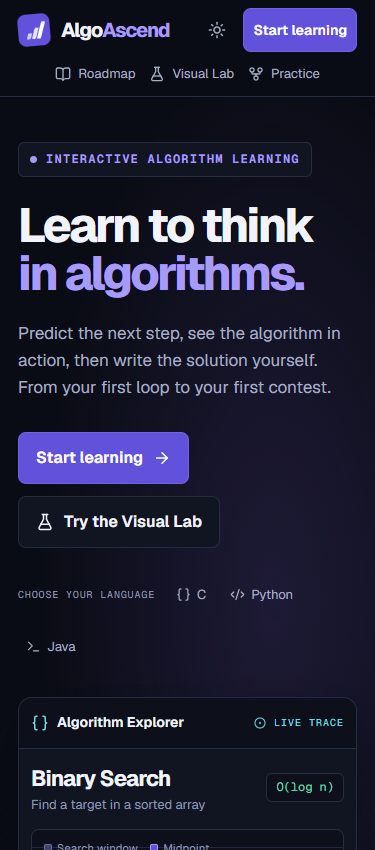
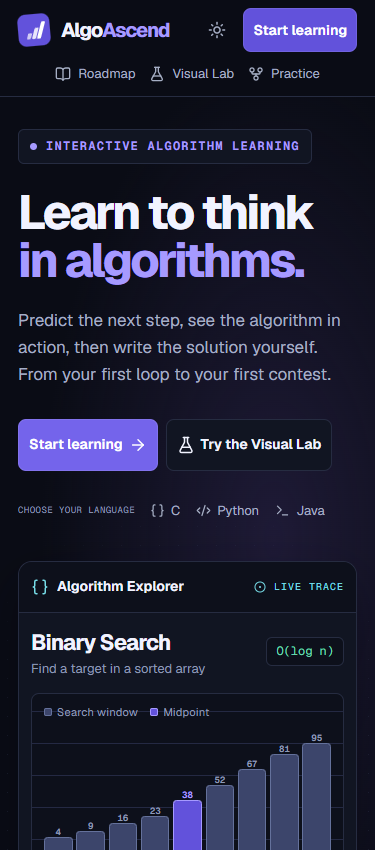
docs: record verified learning features and refresh screenshots

diff --git a/PROGRESS.md b/PROGRESS.md
@@ -1,18 +1,24 @@
 # Progress
 
-## Verified learning slice
+## Implemented
 
-- Public GitHub repository and research-backed product specification.
-- Responsive landing page, light and dark themes, guest onboarding, and personalized roadmap.
-- Three interactive lessons, three original problems, and working guest progress, drafts, and notes.
-- Binary search and bubble sort traces, editable inputs, and a measured binary-versus-linear search comparison.
-- Monaco coding workspace, authored hints, operation-budget estimator, and optional AlgoMentor adapter.
-- Production build, automated browser and axe checks, and compiled/executed reference examples in C, Python, and Java.
+- Public GitHub repository, platform research, phased architecture plan, and proposed account schema.
+- Responsive landing page, light and dark themes, guest onboarding, and personalized roadmap with all 15 stages listed.
+- Four published lessons and four original challenges. Progress, source drafts, personal notes, and manual external completion persist in the browser.
+- Three visual traces with editable input, pseudocode, playback, and state. Algorithm Battle measures binary and linear search on the same input.
+- Monaco workspace with authored hints, an operation-budget estimator, and optional Judge0 and AlgoMentor adapters.
+- Explainable revision intervals and an editable mistake notebook.
+- Official practice links for five platforms and public Codeforces rating history.
 
-## Release work remaining
+## Verification
 
-- Validate the actual Judge0 deployment and mentor provider with real endpoints. The application handles both missing services and keeps guest learning usable.
-- Add account identity, PostgreSQL migrations, shared limits, and synchronization.
-- Expand the planned stages, problem bank, visualization catalog, spaced revision, and analytics.
-- Add authorized platform synchronization, timed contests, upsolving, and release infrastructure.
-- Run a manual screen-reader and deployment acceptance pass before public service launch.
+The production build, TypeScript, lint, unit tests, browser journeys, and automated axe checks run locally and in GitHub Actions. Trusted reference programs run in C, Python, and Java. The Codeforces application endpoint returned 12 recent rating rows during a live smoke test. The Judge0 and mentor tests cover request handling and unavailable-service behavior. No live instance or model credentials were configured for this run.
+
+Screenshots reflect the local application at 375, 768, and 1440 pixels. They are the first visual baseline. A manual screen-reader and deployment pass is still pending.
+
+## Next release milestones
+
+1. Bring up and validate the isolated judge with all three runtimes. Test resource limits and isolate networking. Smoke-test the chosen AlgoMentor model and enforce shared quotas before public enablement.
+2. Add account registration, sign-in, PostgreSQL migrations, and cross-device progress.
+3. Expand the remaining lessons, visualization families, and challenge bank. Add editorial and reference harnesses with each published challenge.
+4. Add timed contests, upsolving, richer analytics, and authorized account integrations. External completion is currently manual.

diff --git a/README.md b/README.md
@@ -15,14 +15,16 @@ npm ci
 npm run dev
 ```
 
-Open [localhost:3000](http://localhost:3000). Guest onboarding, three interactive lessons, the full curriculum roadmap, two visual traces, and three original coding problems work without an account or service credentials. This browser stores your progress, editor drafts, and notes.
+Open [localhost:3000](http://localhost:3000). Guest onboarding, four interactive lessons, the full curriculum roadmap, three visual traces, and four original coding problems work without an account or service credentials. This browser stores your progress, editor drafts, and notes.
 
 ## Learn by doing
 
 - **Start** chooses a language, experience level, goal, and daily time budget.
 - **Roadmap** recommends the next published lesson and marks completed lessons.
-- **Visual Lab** walks through first-occurrence binary search and bubble sort. Edit the array, change speed, step in either direction, and inspect variables and pseudocode.
+- **Visual Lab** walks through first-occurrence binary search, bubble sort, and running totals. Edit the array, step through pseudocode, and compare binary and linear search on the same input.
 - **Practice** includes a locally served Monaco editor, a plain-text editor, a resizable workspace, individual drafts, notes, and progressive hints.
+- **Revision** schedules reviews from prediction results. The mistake notebook records missed predictions and failed submissions and lets learners add their own explanation.
+- **External practice** links to five official platforms with manual completion, and reads recent Codeforces ratings from the public API.
 
 ## Connect an isolated judge
 

diff --git a/CHANGELOG.md b/CHANGELOG.md
@@ -3,5 +3,7 @@
 ## Unreleased
 
 - Added algorithm traces for binary search and bubble sort.
-- Added guest onboarding, roadmap recommendations, three lessons and three practice problems.
+- Added guest onboarding, roadmap recommendations, four lessons and four practice problems.
 - Added Monaco editing, progress persistence, hints, and a configurable Judge0 adapter.
+- Added a binary-versus-linear search comparison and a running-total visualization.
+- Added a revision queue, editable mistake notebook, curated external practice and Codeforces rating lookup.
